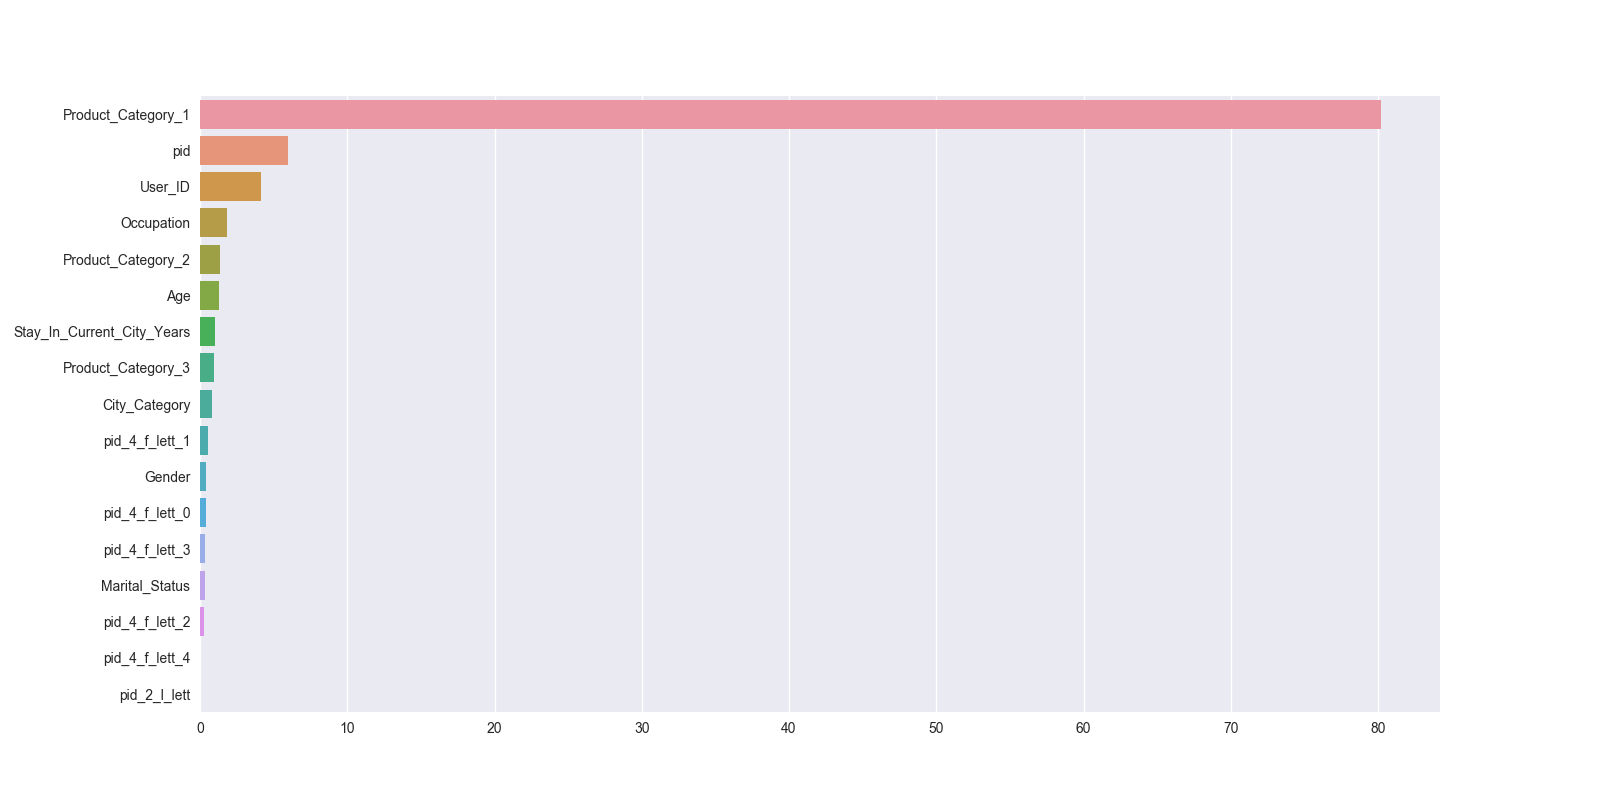
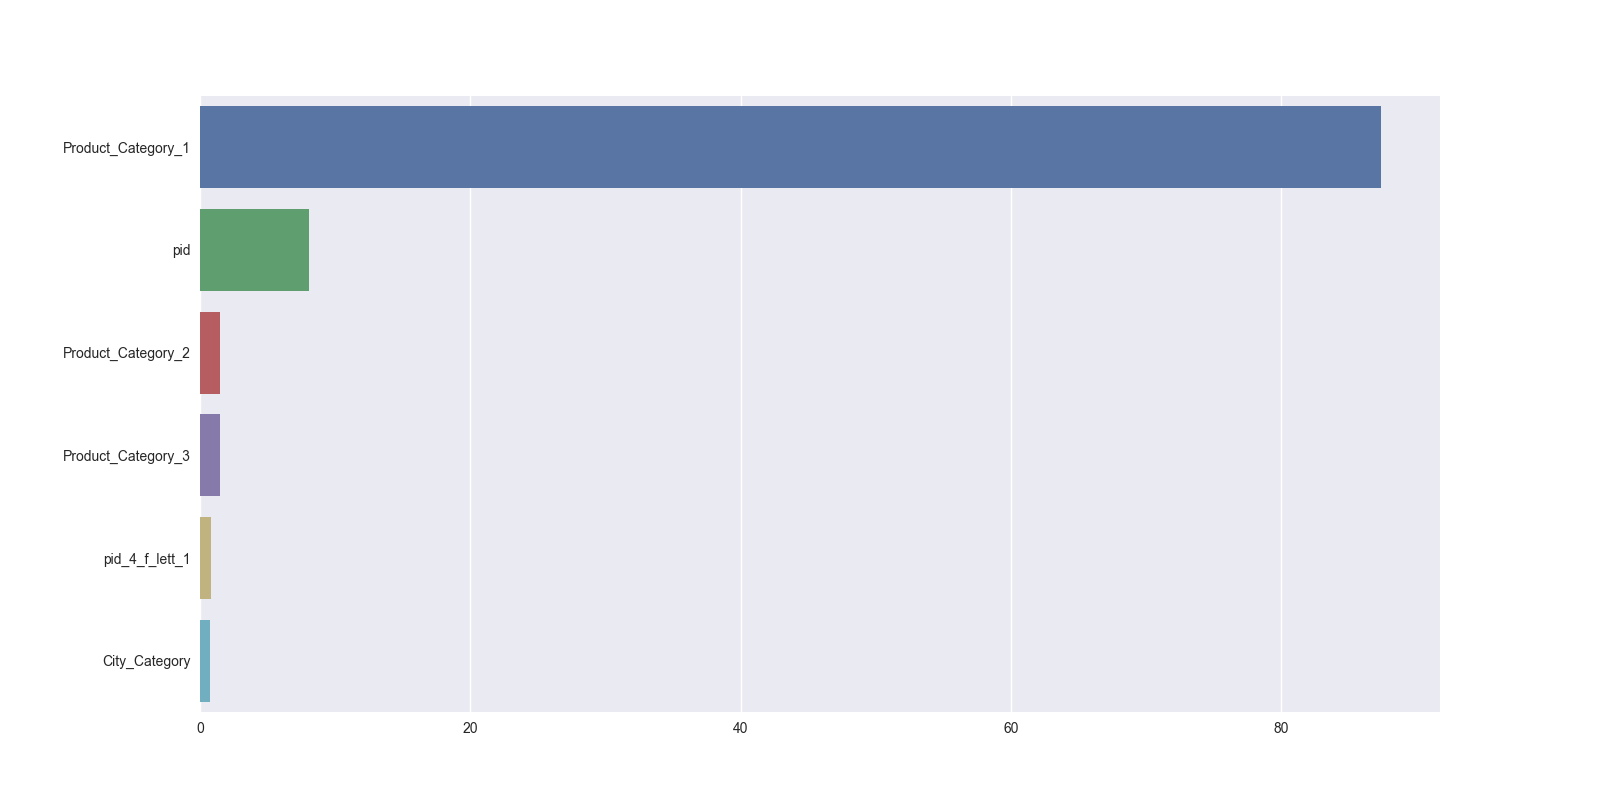
feature select

Changed region(s): [[0.0, 0.125, 0.875, 0.7812], [0.0625, 0.7812, 0.1562, 0.875]]

diff --git a/model.py b/model.py
@@ -7,6 +7,7 @@ from sklearn.ensemble import RandomForestClassifier
 from sklearn.model_selection import train_test_split
 from sklearn.metrics import mean_squared_error
 from matplotlib import pyplot as plt
+from sklearn import neighbors
 sns.set()
 
 
@@ -15,8 +16,6 @@ test = pd.read_csv('test_cleaned.csv')
 target = data.Purchase
 data = data.drop('Purchase', axis=1)
 
-
-# x_train, x_test, y_train, y_test = train_test_split(data, target, test_size=0.2)
 
 # tmp = []
 # for i in range(10, 50):
@@ -27,27 +26,52 @@ data = data.drop('Purchase', axis=1)
 # plt.plot(range(10, 50), tmp)
 # plt.show()
 
+# cols = ['User_ID', 'Gender', 'Age', 'Occupation', 'City_Category',
+#        'Stay_In_Current_City_Years', 'Marital_Status', 'Product_Category_1',
+#        'Product_Category_2', 'Product_Category_3', 'pid_4_f_lett_0',
+#        'pid_4_f_lett_1', 'pid_4_f_lett_2', 'pid_4_f_lett_3', 'pid_4_f_lett_4',
+#        'pid_2_l_lett', 'pid']
 
-# ft_imp = []
-# cols = data.columns
-# fig = plt.figure()
-# for i in range(len(cols)):
-#     ft_imp.append((cols[i], list(model.feature_importances_)[i]))
-# ft_imp = sorted(ft_imp, key=lambda x: x[1], reverse=True)
-# ft_imp = [(x, (y/sum([j for i, j in ft_imp])) * 100) for x, y in ft_imp]
-# sns.barplot([y for x, y in ft_imp], [x for x, y in ft_imp], orient='h')
-# fig.set_size_inches(16, 8)
-# # plt.show()
-# plt.savefig('feature_importance.png')
+# for col in cols:
+#     fig = plt.figure()
+#     sns.regplot(data.loc[::100, col], target.iloc[::100])
+# plt.show()
 
-model = RandomForestRegressor(n_estimators=30, n_jobs=-1, max_depth=18)
-model.fit(data, target)
-# print(model.score(x_test, y_test))
+# x_train, x_test, y_train, y_test = train_test_split(data, target, test_size=0.2)
+
+# tmp = []
+# for i in range(5, 30):
+#     model = RandomForestRegressor(n_estimators=30, n_jobs=-1, max_depth=i)
+#     model.fit(x_train, y_train)
+#     tmp.append(model.score(x_test, y_test) * 100)
+#     print(i)
+# plt.plot(range(5, 30), tmp)
+# plt.show()
+# print([(x+5, y) for x, y in enumerate(tmp)])
+
+best_cols = ['City_Category', 'Product_Category_1', 'Product_Category_2',
+             'Product_Category_3','pid_4_f_lett_1', 'pid']
+
+model = RandomForestRegressor(n_jobs=-1, max_depth=20, n_estimators=30)
+model.fit(data.loc[:, best_cols], target)
+
+ft_imp = []
+cols = best_cols
+fig = plt.figure()
+for i in range(len(cols)):
+    ft_imp.append((cols[i], list(model.feature_importances_)[i]))
+ft_imp = sorted(ft_imp, key=lambda x: x[1], reverse=True)
+ft_imp = [(x, (y/sum([j for i, j in ft_imp])) * 100) for x, y in ft_imp]
+sns.barplot([y for x, y in ft_imp], [x for x, y in ft_imp], orient='h')
+fig.set_size_inches(16, 8)
+# plt.show()
+plt.savefig('feature_importance.png')
+
 
 submission = pd.DataFrame(columns=['User_ID', 'Product_ID', 'Purchase'])
 tmp_test = pd.read_csv('test.csv')
 submission.User_ID = tmp_test.User_ID
 submission.Product_ID = tmp_test.Product_ID
 
-submission.Purchase = model.predict(test)
+submission.Purchase = model.predict(test.loc[:, best_cols])
 submission.to_csv('generated_sub.csv', index=False)
